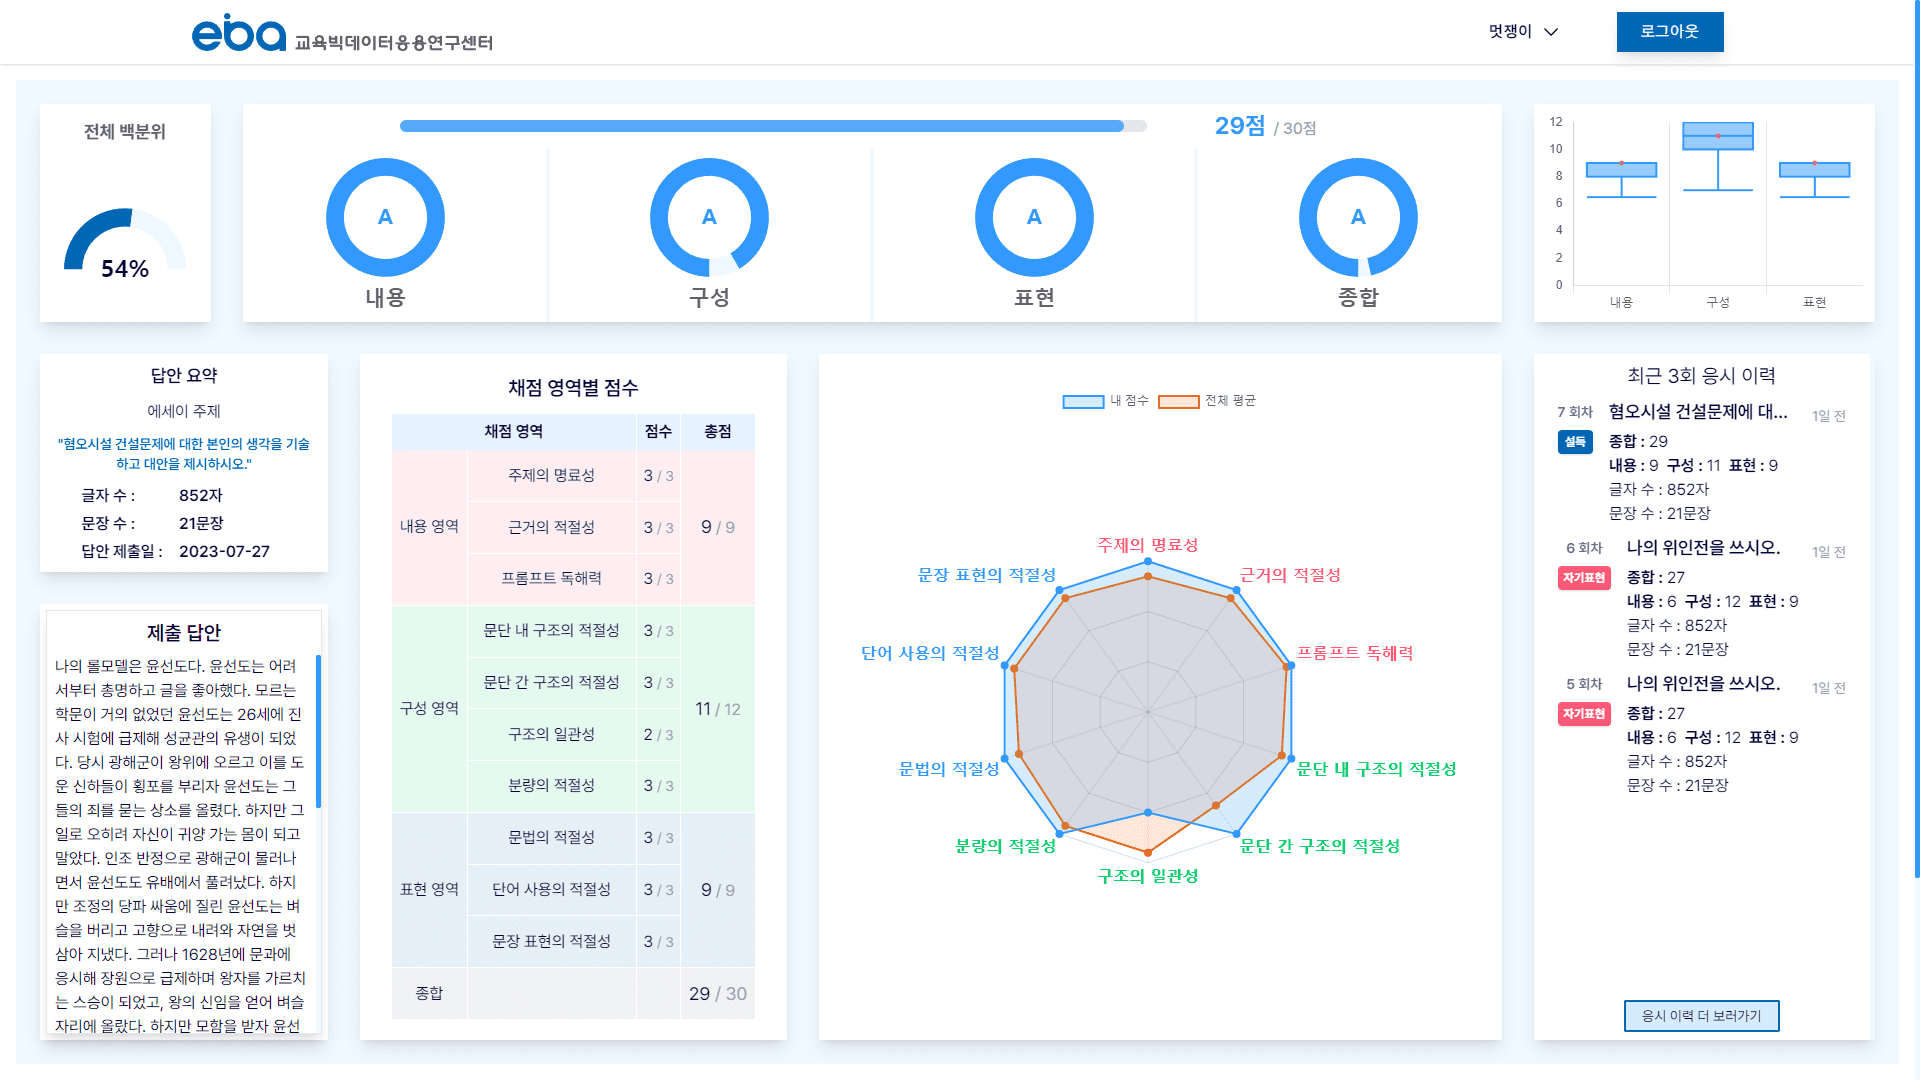
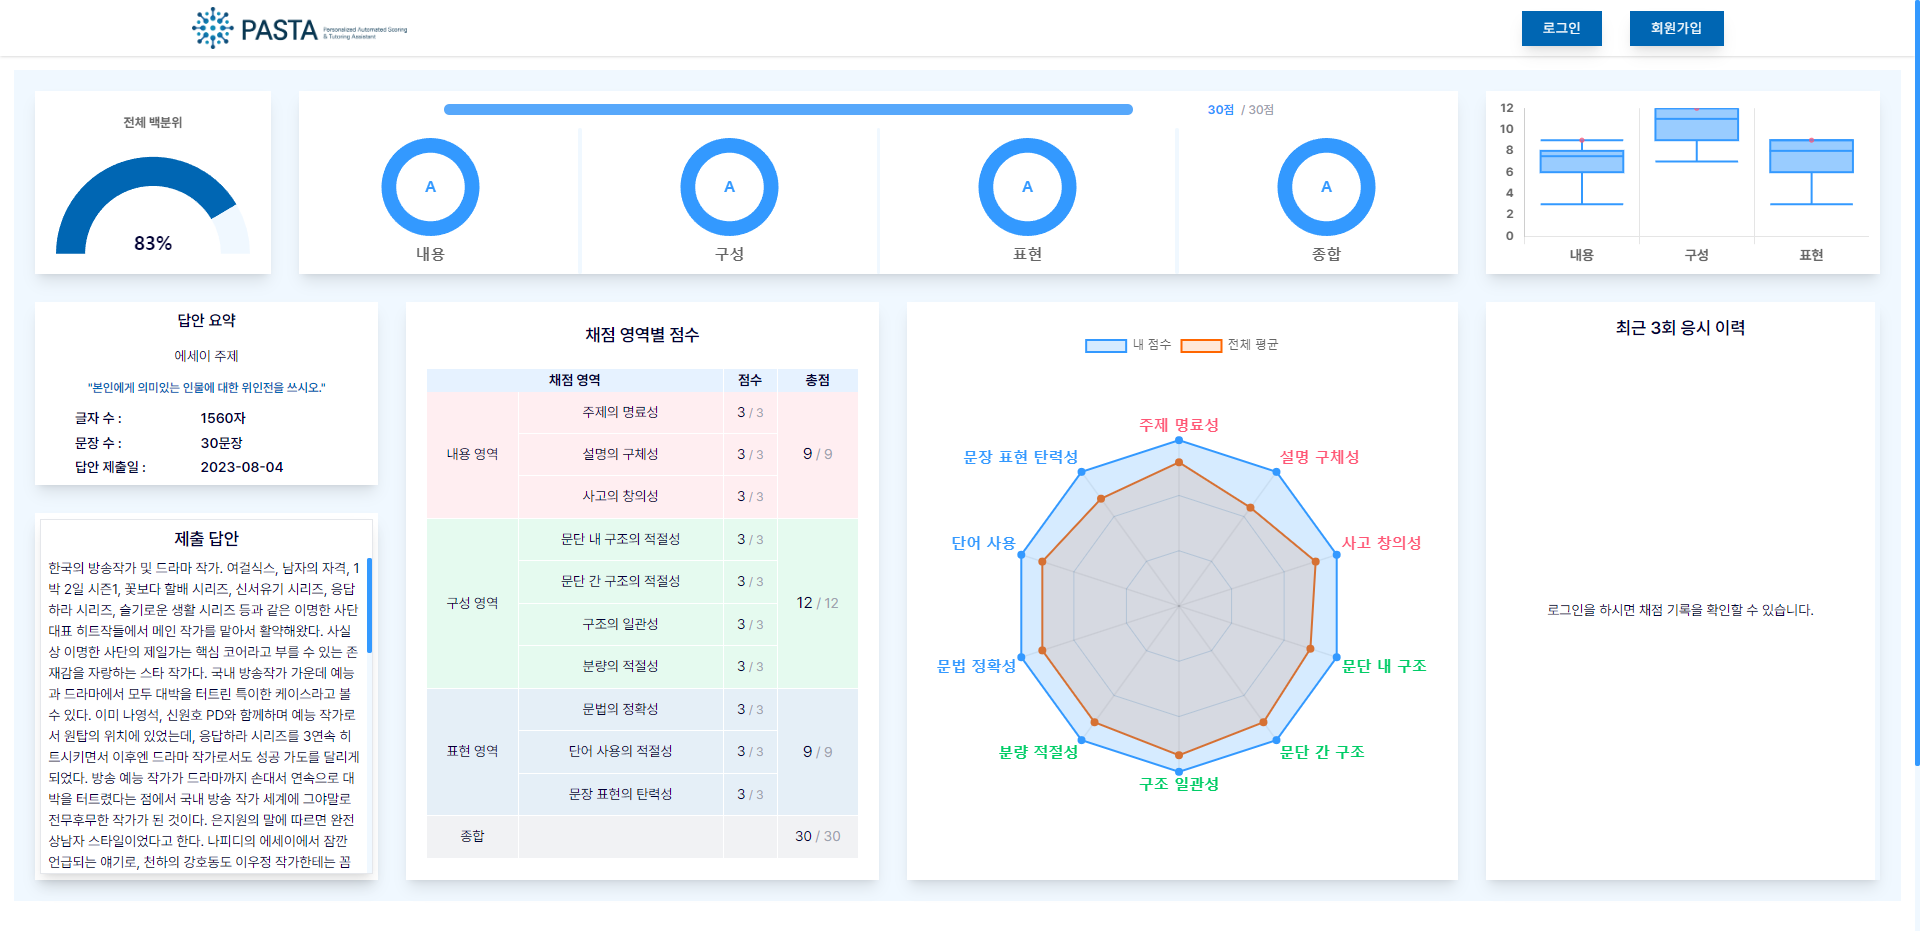
feat : 로고, result 페이지 사진 수정

diff --git a/web/src/app/_components/Header.tsx b/web/src/app/_components/Header.tsx
@@ -6,7 +6,7 @@ import Link from 'next/link';
 import { ChevronUpIcon } from '@heroicons/react/24/outline';
 import clsx from 'clsx';
 import useAuthStore from '@/store/authStore';
-import EBALogo from '$/images/logos/logo/logo(H)_text_tag(KR)_2.svg';
+import EBALogo from '$/images/logos/logo/pasta_logo_horizon.png';
 import Button from '@/components/ui/Button';
 import fetchSignOut from '@/lib/utils/api/auth/fetchSignOut';
 import useOutsideClick from '@/lib/hooks/useOnClickOutside';
@@ -40,7 +40,7 @@ export default function Header() {
             src={EBALogo}
             alt="인하대학교 로고"
             style={{
-              height: '60%',
+              height: '75%',
               width: 'fit-content',
               objectFit: 'contain',
             }}

diff --git a/web/src/lib/constants/api.ts b/web/src/lib/constants/api.ts
@@ -1,3 +1,6 @@
-const API_BASE_URL = 'https://www.ebapasta.com/api/v1';
+const API_BASE_URL =
+  process.env.NODE_ENV === 'production'
+    ? 'https://www.ebapasta.com/api/v1'
+    : 'http://127.0.0.1:3000/api/v1';
 
 export default API_BASE_URL;
